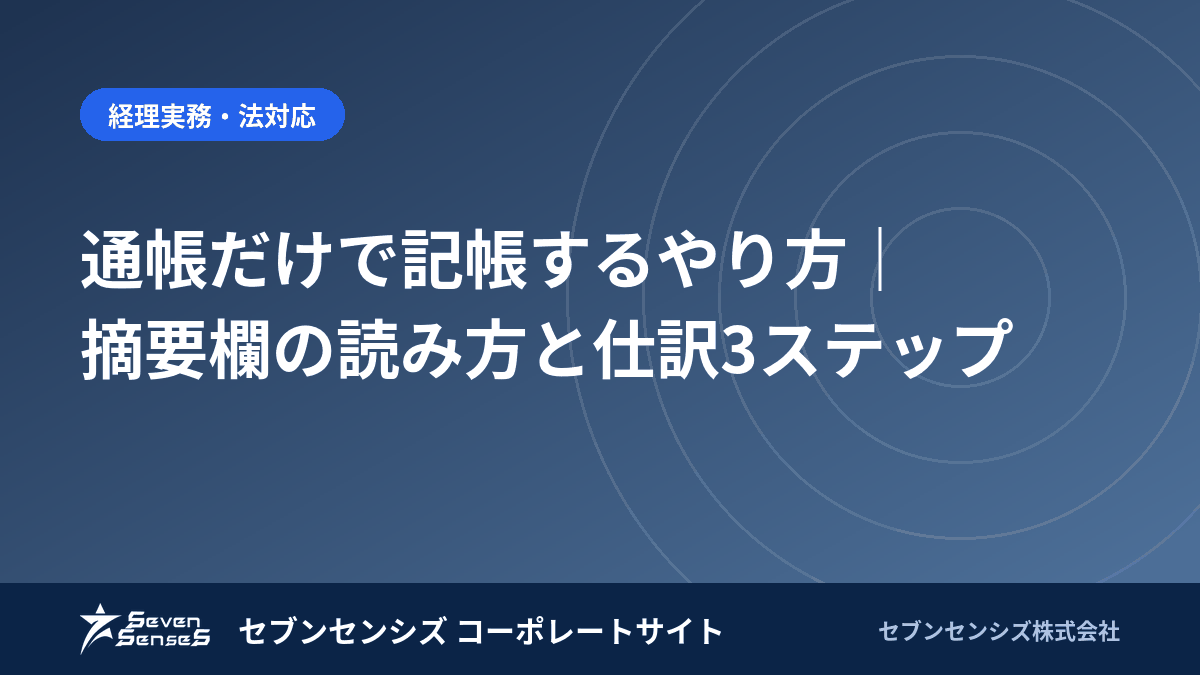
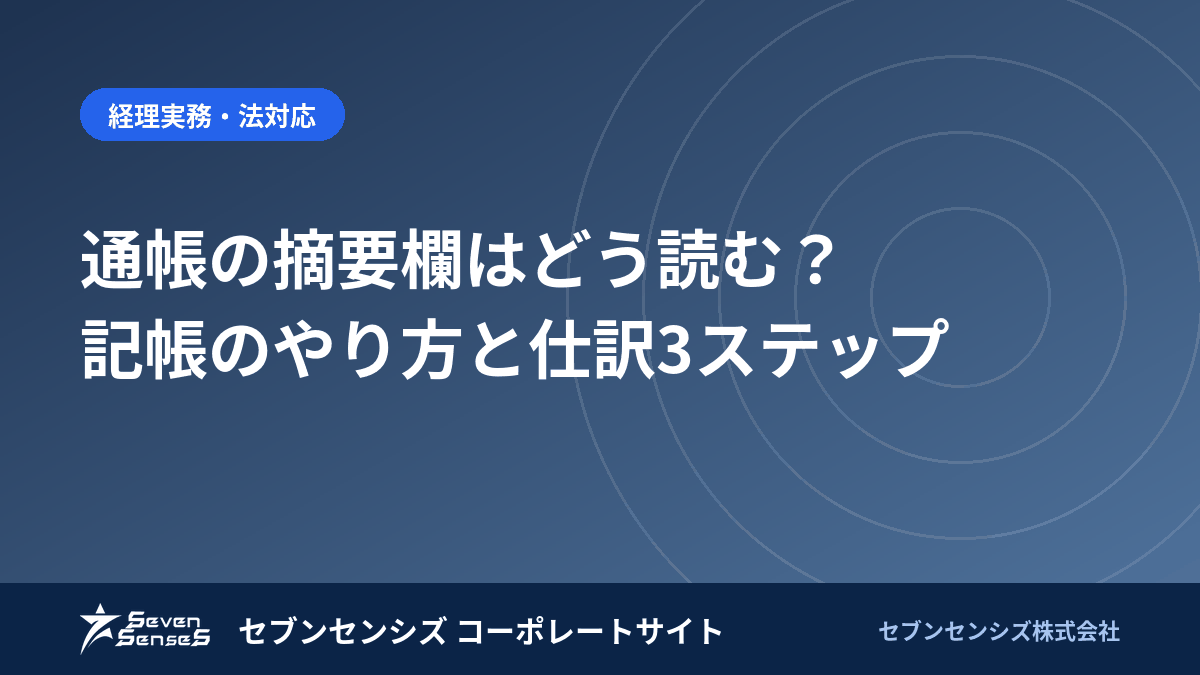
rewrite: 通帳の記帳のやり方のタイトル・説明文を流入語「摘要欄 読み方」起点の疑問形に（月上限到達のため新規は作らず）

Changed region(s): [[0.0617, 0.4667, 0.8633, 0.56], [0.1542, 0.3422, 0.74, 0.4356]]

diff --git a/articles/tsucho-kicho-yarikata.md b/articles/tsucho-kicho-yarikata.md
@@ -1,11 +1,11 @@
 ---
-title: 通帳だけで記帳するやり方｜摘要欄の読み方と仕訳3ステップ
-description: 通帳だけで記帳するやり方を解説します。紙の通帳しか使わない個人事業主・中小企業向けに、摘要欄の読み方、入金・出金を仕訳に変える3ステップ、記帳が遅れる支障、ネットバンキング切り替えの目安まで2026年9月時点でまとめました。
+title: 通帳の摘要欄はどう読む？記帳のやり方と仕訳3ステップ
+description: 通帳の摘要欄の読み方と、通帳だけで記帳するやり方を解説します。「フリコミ」「コウザフリカエ」などの略称から取引を特定し、入金・出金を仕訳に変える3ステップ、記帳が遅れる支障、ネットバンキング切り替えの目安まで2026年9月時点でまとめました。
 slug: tsucho-kicho-yarikata
 keyword: 記帳 やり方 通帳
 category: keiri-jitsumu
 date: 2026-09-11
-modified: 2026-09-11
+modified: 2026-09-25
 depth: quick
 score: 95
 score_breakdown: {design: 19, seo: 18, editorial: 19, expert: 19, persona: 19, aio: 20}
